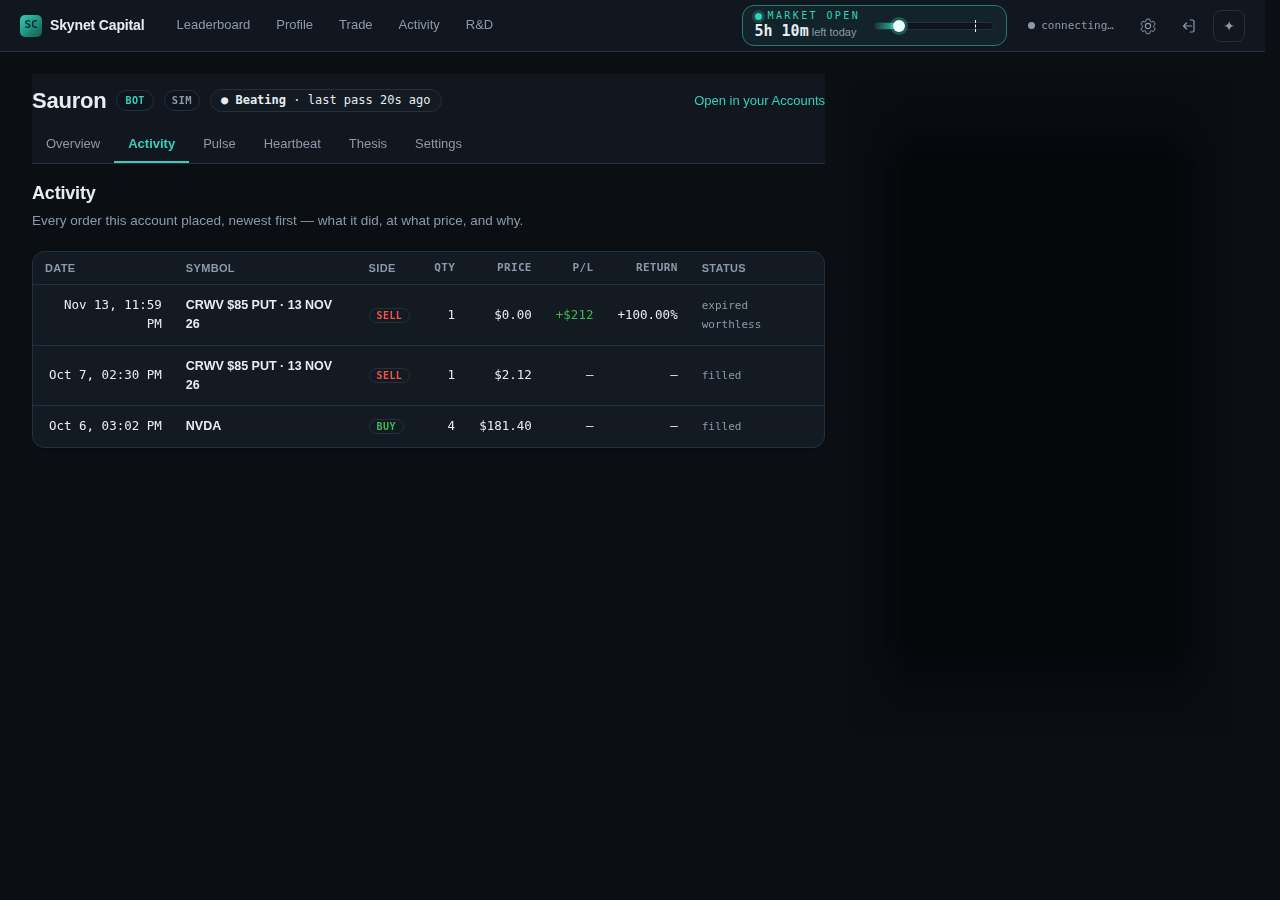
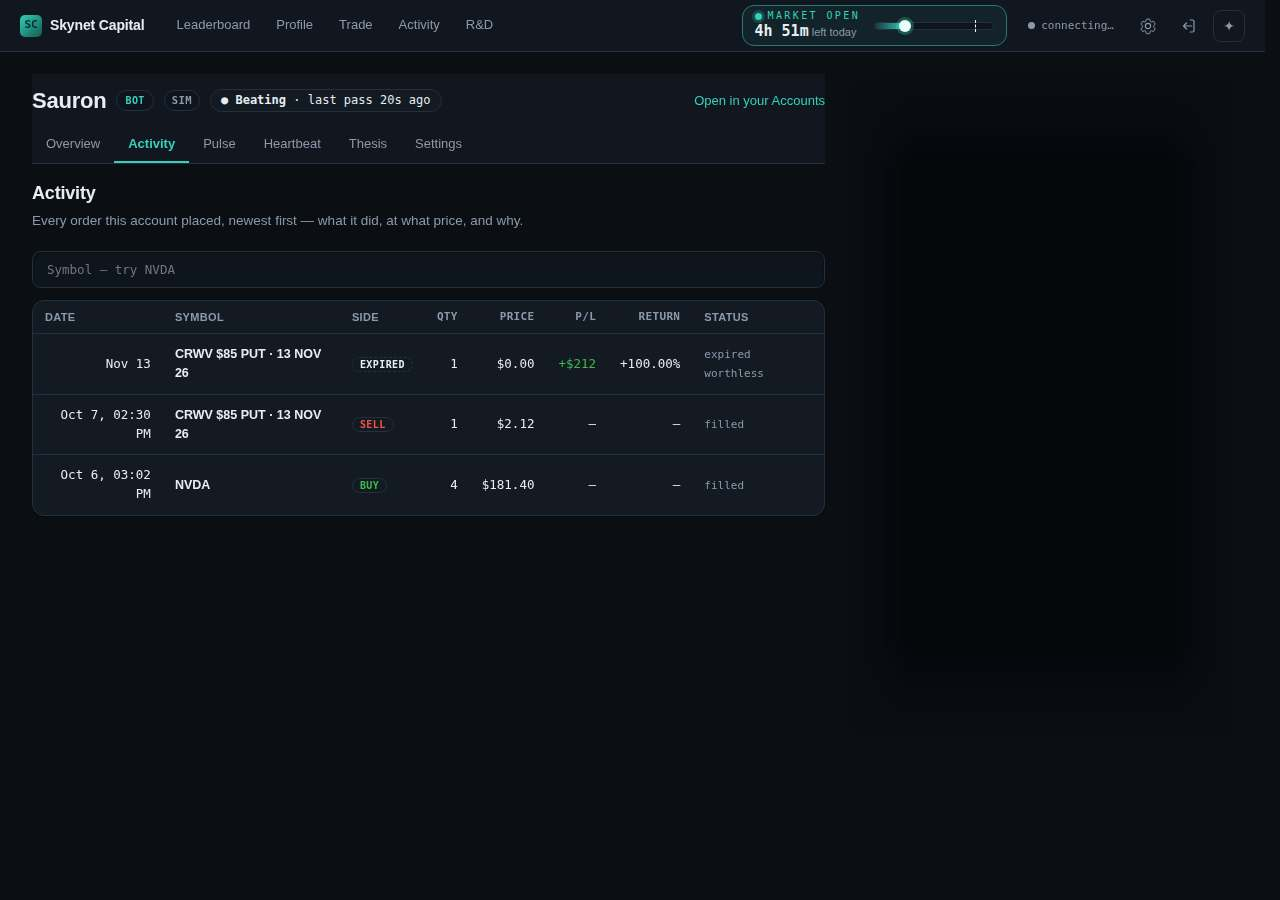
fix(activity): name an expiry or assignment on its row instead of a second sell
Summary: an Activity row the broker reported as an expiry, assignment,
exercise or share settlement now reads EXPIRED, ASSIGNED, EXERCISED or
SETTLED where the BUY/SELL chip was, on a neutral dashed chip, and is dated
by its day alone. The day uses the lifecycle card's own rule, now shared.

Why: with the sweep putting these rows on every account automatically, a
phone showed an expired put as "SELL 1 $0.00" stamped "11:59 PM" under the
put's real sale, which reads as a second sale at a time that never happened.

Claude-Session: https://claude.ai/code/session_01MyaZisGk9bTGHXNZM7hZog

diff --git a/app/src/shell/activity-table.tsx b/app/src/shell/activity-table.tsx
@@ -7,6 +7,7 @@ import type {
   DeskActivityLeg,
   DeskMissingLeg,
 } from "../live/desk";
+import { lifecycleDayText } from "../live/lifecycle-day";
 import { cycleAnchor } from "./cycle-anchor";
 
 /**
@@ -202,6 +203,39 @@ export function targetedActivityRow(): string | undefined {
   return hash.startsWith("act-") ? hash : undefined;
 }
 
+/** What a lifecycle row says where an order's side would be. Nothing was bought or sold, and on a
+ *  phone a $0 "SELL" under the put's real sale read as a second sale (#4650). The word carries it;
+ *  the chip is neutral and dashed, never the buy/sell hues. */
+const LIFECYCLE_CHIP: Record<NonNullable<DeskActivityEvent["lifecycle"]>, string> = {
+  OPEXP: "EXPIRED",
+  OPASN: "ASSIGNED",
+  OPEXC: "EXERCISED",
+  OPTRD: "SETTLED",
+};
+
+function SideChip({ event }: { readonly event: DeskActivityEvent }): ReactElement {
+  return event.lifecycle ? (
+    <span className="tl-side tl-lifecycle">{LIFECYCLE_CHIP[event.lifecycle]}</span>
+  ) : (
+    <span className={`tl-side tl-${event.side}`}>{event.side.toUpperCase()}</span>
+  );
+}
+
+/** An order's date and time; a lifecycle row's DAY alone, the lifecycle card's own rule — its stamp
+ *  is a synthetic end-of-day instant, so a time would be one the event never had. */
+function rowStamp(event: DeskActivityEvent, now = new Date()): string {
+  if (event.lifecycle) return lifecycleDayText(event.at, now);
+  const when = new Date(event.at);
+  return Number.isNaN(when.getTime())
+    ? event.at
+    : when.toLocaleString(undefined, {
+        month: "short",
+        day: "numeric",
+        hour: "2-digit",
+        minute: "2-digit",
+      });
+}
+
 function ActivityRow({
   event,
   withWhy,
@@ -220,15 +254,7 @@ function ActivityRow({
     // Optional-call, as `decisions-section.tsx` does: happy-dom has no `scrollIntoView`.
     if (targetedActivityRow() === anchor) row.current?.scrollIntoView?.({ block: "center" });
   }, [anchor]);
-  const when = new Date(event.at);
-  const stamp = Number.isNaN(when.getTime())
-    ? event.at
-    : when.toLocaleString(undefined, {
-        month: "short",
-        day: "numeric",
-        hour: "2-digit",
-        minute: "2-digit",
-      });
+  const stamp = rowStamp(event);
   return (
     <>
       <tr id={anchor} ref={row}>
@@ -261,7 +287,7 @@ function ActivityRow({
           {event.net ? <span className="sym-sub">net {event.net}</span> : null}
         </td>
         <td>
-          <span className={`tl-side tl-${event.side}`}>{event.side.toUpperCase()}</span>
+          <SideChip event={event} />
         </td>
         <td className="num">
           {event.filled > 0 && event.filled !== event.quantity

diff --git a/app/src/shell/option-lifecycle-card.tsx b/app/src/shell/option-lifecycle-card.tsx
@@ -1,6 +1,7 @@
 import { useQuery } from "@tanstack/react-query";
 import type { ReactElement } from "react";
 import type { OptionLifecycleType } from "../../../src/trading/option-lifecycle";
+import { lifecycleDayText } from "../live/lifecycle-day";
 import {
   fetchOptionLifecycle,
   type LifecycleRow,
@@ -45,25 +46,6 @@ const EVENT_GLYPH: Record<OptionLifecycleType, string> = {
   OPTRD: "⇄",
 };
 
-/**
- * "Today", else "Sep 18" — the event's DAY, never a clock time, and read in UTC.
- *
- * Both halves of that are corrections of the obvious version. A lifecycle activity usually carries
- * a DATE with no time of day, which `parseLifecycleActivity` normalizes to the last instant of that
- * day so it sorts after the fills it closes (`option-lifecycle.ts`). Rendering that stamp as a time
- * would print "11:59 PM" — a time the event never had, and one still in the future for most of the
- * day. Rendering it in the browser's own zone would date a 18 Sep expiry "Sep 19" for every member
- * east of UTC, which is a false claim about a settlement date rather than a formatting nicety.
- */
-function whenText(at: string, now: Date): string {
-  const stamp = new Date(at);
-  if (Number.isNaN(stamp.getTime())) return at;
-  const day = (d: Date) => d.toISOString().slice(0, 10);
-  return day(stamp) === day(now)
-    ? "Today"
-    : stamp.toLocaleDateString(undefined, { month: "short", day: "numeric", timeZone: "UTC" });
-}
-
 /** "1 contract", "3 contracts" — the only word on the row this side chooses, and it chooses it for
  *  grammar alone. Every sentence that carries meaning is the server's, rendered verbatim. */
 function countText(row: LifecycleRow): string {
@@ -79,7 +61,7 @@ function EventRow({ row, now }: { readonly row: LifecycleRow; readonly now: Date
           <span aria-hidden="true">{EVENT_GLYPH[row.type]}</span> {row.headline}
         </span>
         <span className="lc-meta">
-          {countText(row)} · {whenText(row.at, now)}
+          {countText(row)} · {lifecycleDayText(row.at, now)}
         </span>
       </p>
       <p className="lc-sym">{row.display}</p>
@@ -104,7 +86,7 @@ export function OptionLifecycleCard({
   now,
 }: {
   readonly deskId: string;
-  /** Test seam only — the clock `whenText` places each event against. */
+  /** Test seam only — the clock `lifecycleDayText` places each event against. */
   readonly now?: Date;
 }): ReactElement | null {
   // Deliberately NOT on the desk's order bus, and deliberately not polled. None of these four

diff --git a/app/tests/shell/activity-table.spec.tsx b/app/tests/shell/activity-table.spec.tsx
@@ -309,3 +309,46 @@ describe("ActivityTable — the row a link points at", () => {
     expect(scroll).not.toHaveBeenCalled();
   });
 });
+
+/** #4650: an expiry or an assignment is not an order. Swept into Activity on its own, a $0 "SELL"
+ *  under the put's real sale read as a second sale on a phone, stamped at a time it never had. */
+describe("ActivityTable — what the broker reported instead of an order", () => {
+  const PUT = "CRWV $85 PUT · 13 NOV 26";
+  const sold = event({ orderId: "opt-put-1", display: PUT, side: "sell", quantity: 1, filled: 1 });
+  const report = (lifecycle: DeskActivityEvent["lifecycle"], orderId: string) =>
+    event({
+      orderId,
+      display: PUT,
+      side: "sell",
+      quantity: 1,
+      filled: 1,
+      price: "$0.00",
+      status: lifecycle === "OPASN" ? "assigned" : "expired worthless",
+      at: "2026-11-13T23:59:59.999Z",
+      lifecycle,
+    });
+
+  it("names the event where a side would be — EXPIRED, ASSIGNED — never a second SELL", () => {
+    const { container } = render(
+      <ActivityTable
+        events={[report("OPEXP", "lifecycle:a"), report("OPASN", "lifecycle:b"), sold]}
+      />,
+    );
+    expect(screen.getByText("EXPIRED")).toHaveClass("tl-side", "tl-lifecycle");
+    expect(screen.getByText("ASSIGNED")).toHaveClass("tl-side", "tl-lifecycle");
+    // The one real sale keeps its SELL; neither report borrows the sell hue.
+    expect(screen.getAllByText("SELL")).toHaveLength(1);
+    expect(container.querySelectorAll(".tl-sell")).toHaveLength(1);
+  });
+
+  it("dates a report by its day alone, never the synthetic end-of-day time", () => {
+    render(<ActivityTable events={[report("OPEXP", "lifecycle:a"), sold]} />);
+    const reportRow = document.getElementById("act-lifecycle:a");
+    expect(reportRow?.querySelector("td.num")?.textContent).toBe("Nov 13");
+    // An order still carries its time of day.
+    const saleStamp = document
+      .getElementById("act-opt-put-1")
+      ?.querySelector("td.num")?.textContent;
+    expect(saleStamp).toMatch(/\d{1,2}:\d{2}/);
+  });
+});

diff --git a/src/observatory/spread-activity.ts b/src/observatory/spread-activity.ts
@@ -1,6 +1,7 @@
 import type { OptionOrderLeg } from "../autonomous/decision-db-leg-orders.js";
 import type { DecisionRecord } from "../autonomous/decision-record.js";
 import type { OptionLegIntent, OrderIntent, Side } from "../domain/types.js";
+import type { OptionLifecycleType } from "../trading/option-lifecycle.js";
 import { humanizeOptionSymbol, isOccSymbol } from "../trading/option-symbols.js";
 import type { TradeActivityRecord } from "./activity-record.js";
 import { formatPrice } from "./desk-data.js";
@@ -11,6 +12,7 @@ import {
   optionFillCostWords,
   optionLegCost,
 } from "./option-fill-cost.js";
+import { lifecycleTypeOf } from "./option-lifecycle-activity.js";
 import { type OrderOrigin, type OrderOriginIndex, orderOrigin } from "./order-origin.js";
 import { formatSigned, plClass } from "./render-atoms.js";
 
@@ -197,6 +199,9 @@ export interface DeskActivityLine {
   readonly at: string;
   readonly backfilled: boolean;
   readonly origin: OrderOrigin;
+  /** An expiry, assignment, exercise or share settlement the broker reported, not an order: the row
+   *  names this in place of a side (#4650). `side` stays as written, for the filters and the P/L. */
+  readonly lifecycle?: OptionLifecycleType;
 }
 
 /** One leg beneath its spread's row, with what it alone paid or received and how it adds up —
@@ -229,7 +234,13 @@ export function orderLineFields(
     at: record.at,
     backfilled: record.source === "backfill",
     origin: orderOrigin(record, origins),
+    ...lifecycleField(record),
   };
+}
+
+function lifecycleField(record: TradeActivityRecord): { lifecycle?: OptionLifecycleType } {
+  const lifecycle = lifecycleTypeOf(record);
+  return lifecycle ? { lifecycle } : {};
 }
 
 function legEvent(record: TradeActivityRecord, origins: OrderOriginIndex): DeskActivityLeg {

diff --git a/src/observatory/option-lifecycle-activity.ts b/src/observatory/option-lifecycle-activity.ts
@@ -1,4 +1,8 @@
-import { LIFECYCLE_STATUS, type NormalizedLifecycleActivity } from "../trading/option-lifecycle.js";
+import {
+  LIFECYCLE_STATUS,
+  type NormalizedLifecycleActivity,
+  type OptionLifecycleType,
+} from "../trading/option-lifecycle.js";
 import type { TradeActivityRecord } from "./activity-record.js";
 
 /**
@@ -20,6 +24,24 @@ export function lifecycleOrderId(activityId: string): string {
 /** The inverse: the broker's activity id behind a ledger line, or `undefined` for an order's line. */
 export function lifecycleActivityId(orderId: string): string | undefined {
   return orderId.startsWith(LIFECYCLE_PREFIX) ? orderId.slice(LIFECYCLE_PREFIX.length) : undefined;
+}
+
+const TYPE_BY_STATUS = new Map(
+  (Object.entries(LIFECYCLE_STATUS) as [OptionLifecycleType, string][]).map(([type, status]) => [
+    status,
+    type,
+  ]),
+);
+
+/** Which event a ledger line records — read off its namespaced id and the status
+ *  `lifecycleLedgerRecord` wrote — or `undefined` for an order's line. Activity names the event in
+ *  the side column's place, since nothing was bought or sold (#4650). */
+export function lifecycleTypeOf(
+  record: Pick<TradeActivityRecord, "orderId" | "status">,
+): OptionLifecycleType | undefined {
+  return lifecycleActivityId(record.orderId) === undefined
+    ? undefined
+    : TYPE_BY_STATUS.get(record.status);
 }
 
 export function lifecycleLedgerRecord(

diff --git a/tests/scripts/dashboard-option-lifecycle.spec.ts b/tests/scripts/dashboard-option-lifecycle.spec.ts
@@ -15,6 +15,7 @@ import {
   type TradeActivityRecord,
 } from "../../src/observatory/activity-store.js";
 import { deskLedger } from "../../src/observatory/desk-data.js";
+import type { DeskActivityEvent } from "../../src/observatory/desk-json-view.js";
 import type { Participant } from "../../src/participants/participant.js";
 import {
   type LifecycleSweepDeps,
@@ -148,11 +149,11 @@ describe("the dashboard's option expiry/assignment sweep", () => {
       readTradeActivity: (id: string) => store.list(id),
     } as unknown as DashboardServerConfig;
     await serveDeskJson(res, "/api/desk/sauron/activity", "/api/desk/sauron/activity", config);
-    const rows = (JSON.parse(body) as { activity: { status: string; realizedPl?: string }[] })
-      .activity;
-    expect(rows.map((r) => [r.status, r.realizedPl])).toEqual([
-      ["expired worthless", "+$212"],
-      ["filled", undefined],
+    const rows = (JSON.parse(body) as { activity: DeskActivityEvent[] }).activity;
+    // The report names its event (the row's chip reads EXPIRED, not a second SELL); the sale does not.
+    expect(rows.map((r) => [r.status, r.realizedPl, r.lifecycle])).toEqual([
+      ["expired worthless", "+$212", "OPEXP"],
+      ["filled", undefined, undefined],
     ]);
   });
 

diff --git a/app/src/live/lifecycle-day.ts b/app/src/live/lifecycle-day.ts
@@ -1,0 +1,20 @@
+/**
+ * "Today", else "Sep 18" — an option lifecycle event's DAY, never a clock time, and read in UTC.
+ * Shared by the Orders pane's lifecycle card and Activity's lifecycle rows (#4650), so both date an
+ * expiry or an assignment the same way.
+ *
+ * Both halves of that are corrections of the obvious version. A lifecycle activity usually carries
+ * a DATE with no time of day, which `parseLifecycleActivity` normalizes to the last instant of that
+ * day so it sorts after the fills it closes (`option-lifecycle.ts`). Rendering that stamp as a time
+ * would print "11:59 PM" — a time the event never had, and one still in the future for most of the
+ * day. Rendering it in the browser's own zone would date a 18 Sep expiry "Sep 19" for every member
+ * east of UTC, which is a false claim about a settlement date rather than a formatting nicety.
+ */
+export function lifecycleDayText(at: string, now: Date): string {
+  const stamp = new Date(at);
+  if (Number.isNaN(stamp.getTime())) return at;
+  const day = (d: Date) => d.toISOString().slice(0, 10);
+  return day(stamp) === day(now)
+    ? "Today"
+    : stamp.toLocaleDateString(undefined, { month: "short", day: "numeric", timeZone: "UTC" });
+}

diff --git a/tests/observatory/option-lifecycle-activity.spec.ts b/tests/observatory/option-lifecycle-activity.spec.ts
@@ -1,6 +1,7 @@
 import {
   lifecycleLedgerRecord,
   lifecycleOrderId,
+  lifecycleTypeOf,
 } from "../../src/observatory/option-lifecycle-activity.js";
 import type { NormalizedLifecycleActivity } from "../../src/trading/option-lifecycle.js";
 
@@ -45,5 +46,18 @@ describe("lifecycleLedgerRecord (#468 criterion 6)", () => {
       "ann",
     );
     expect(settled).toMatchObject({ status: "option settlement", price: 150, side: "buy" });
+  });
+});
+
+describe("lifecycleTypeOf (#4650)", () => {
+  it("reads each of the four events back off the line the ledger holds", () => {
+    for (const type of ["OPEXP", "OPASN", "OPEXC", "OPTRD"] as const) {
+      expect(lifecycleTypeOf(lifecycleLedgerRecord({ ...base, type }, "ann"))).toBe(type);
+    }
+  });
+
+  it("says nothing about an order's line, even one whose status reads like an event", () => {
+    expect(lifecycleTypeOf({ orderId: "o-1", status: "filled" })).toBeUndefined();
+    expect(lifecycleTypeOf({ orderId: "o-2", status: "assigned" })).toBeUndefined();
   });
 });

diff --git a/app/src/live/desk.ts b/app/src/live/desk.ts
@@ -296,6 +296,9 @@ export interface DeskActivityLine {
   readonly at: string;
   readonly backfilled: boolean;
   readonly origin: OrderOrigin;
+  /** Present when the broker reported an expiry, assignment, exercise or share settlement rather
+   *  than an order filling (#4650): the row names it where a side would be. `side` is unchanged. */
+  readonly lifecycle?: "OPEXP" | "OPASN" | "OPEXC" | "OPTRD";
 }
 
 export interface DeskActivityEvent extends DeskActivityLine {

diff --git a/app/src/styles/order-event-line.css b/app/src/styles/order-event-line.css
@@ -23,6 +23,12 @@
 .tl-sell {
   color: var(--neg);
 }
+/* An expiry, assignment, exercise or settlement on Activity (#4650): no order was bought or sold,
+   so the chip names the event in plain text on a dashed edge, never a buy/sell hue. */
+.tl-lifecycle {
+  color: var(--text);
+  border-style: dashed;
+}
 .tl-status {
   color: var(--muted);
   font-family: var(--mono);
